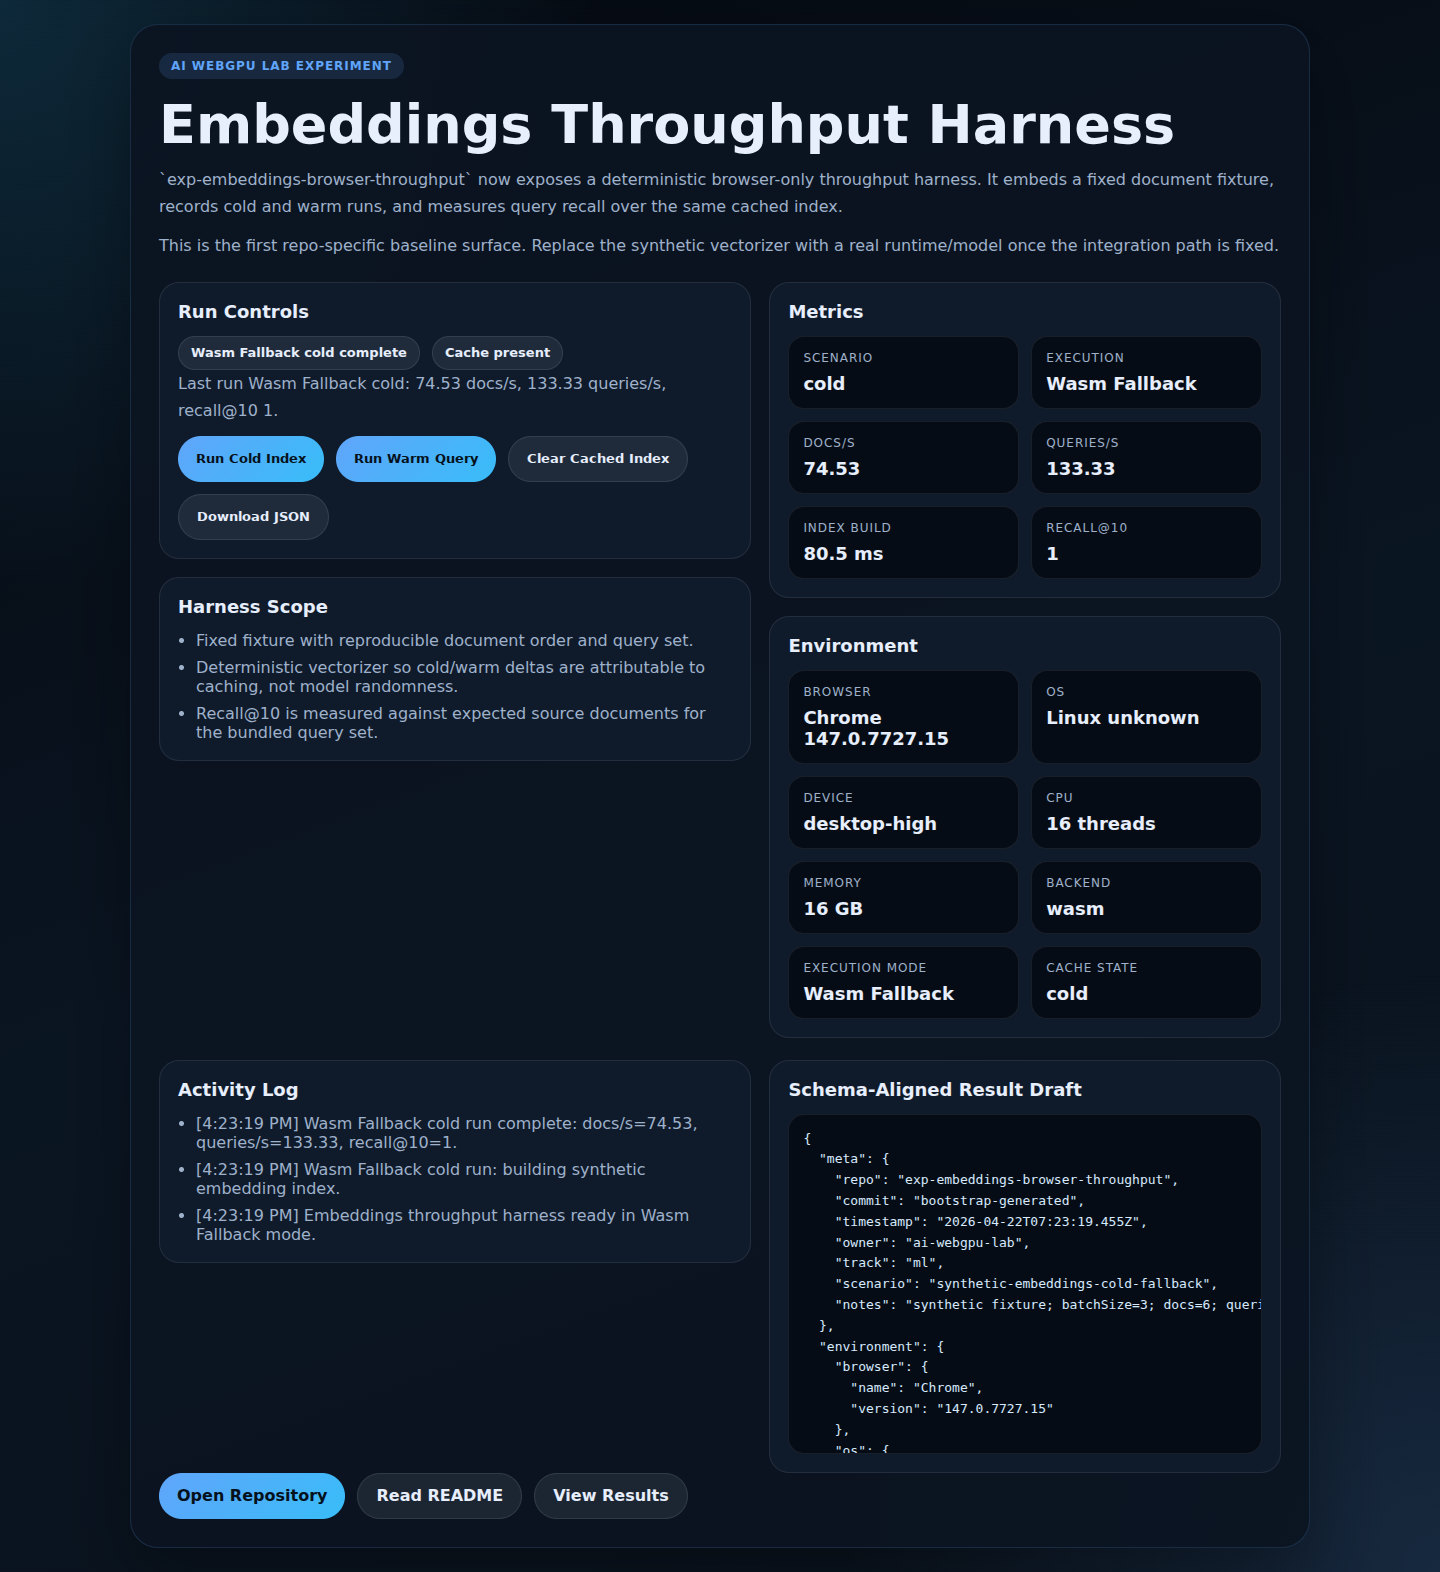
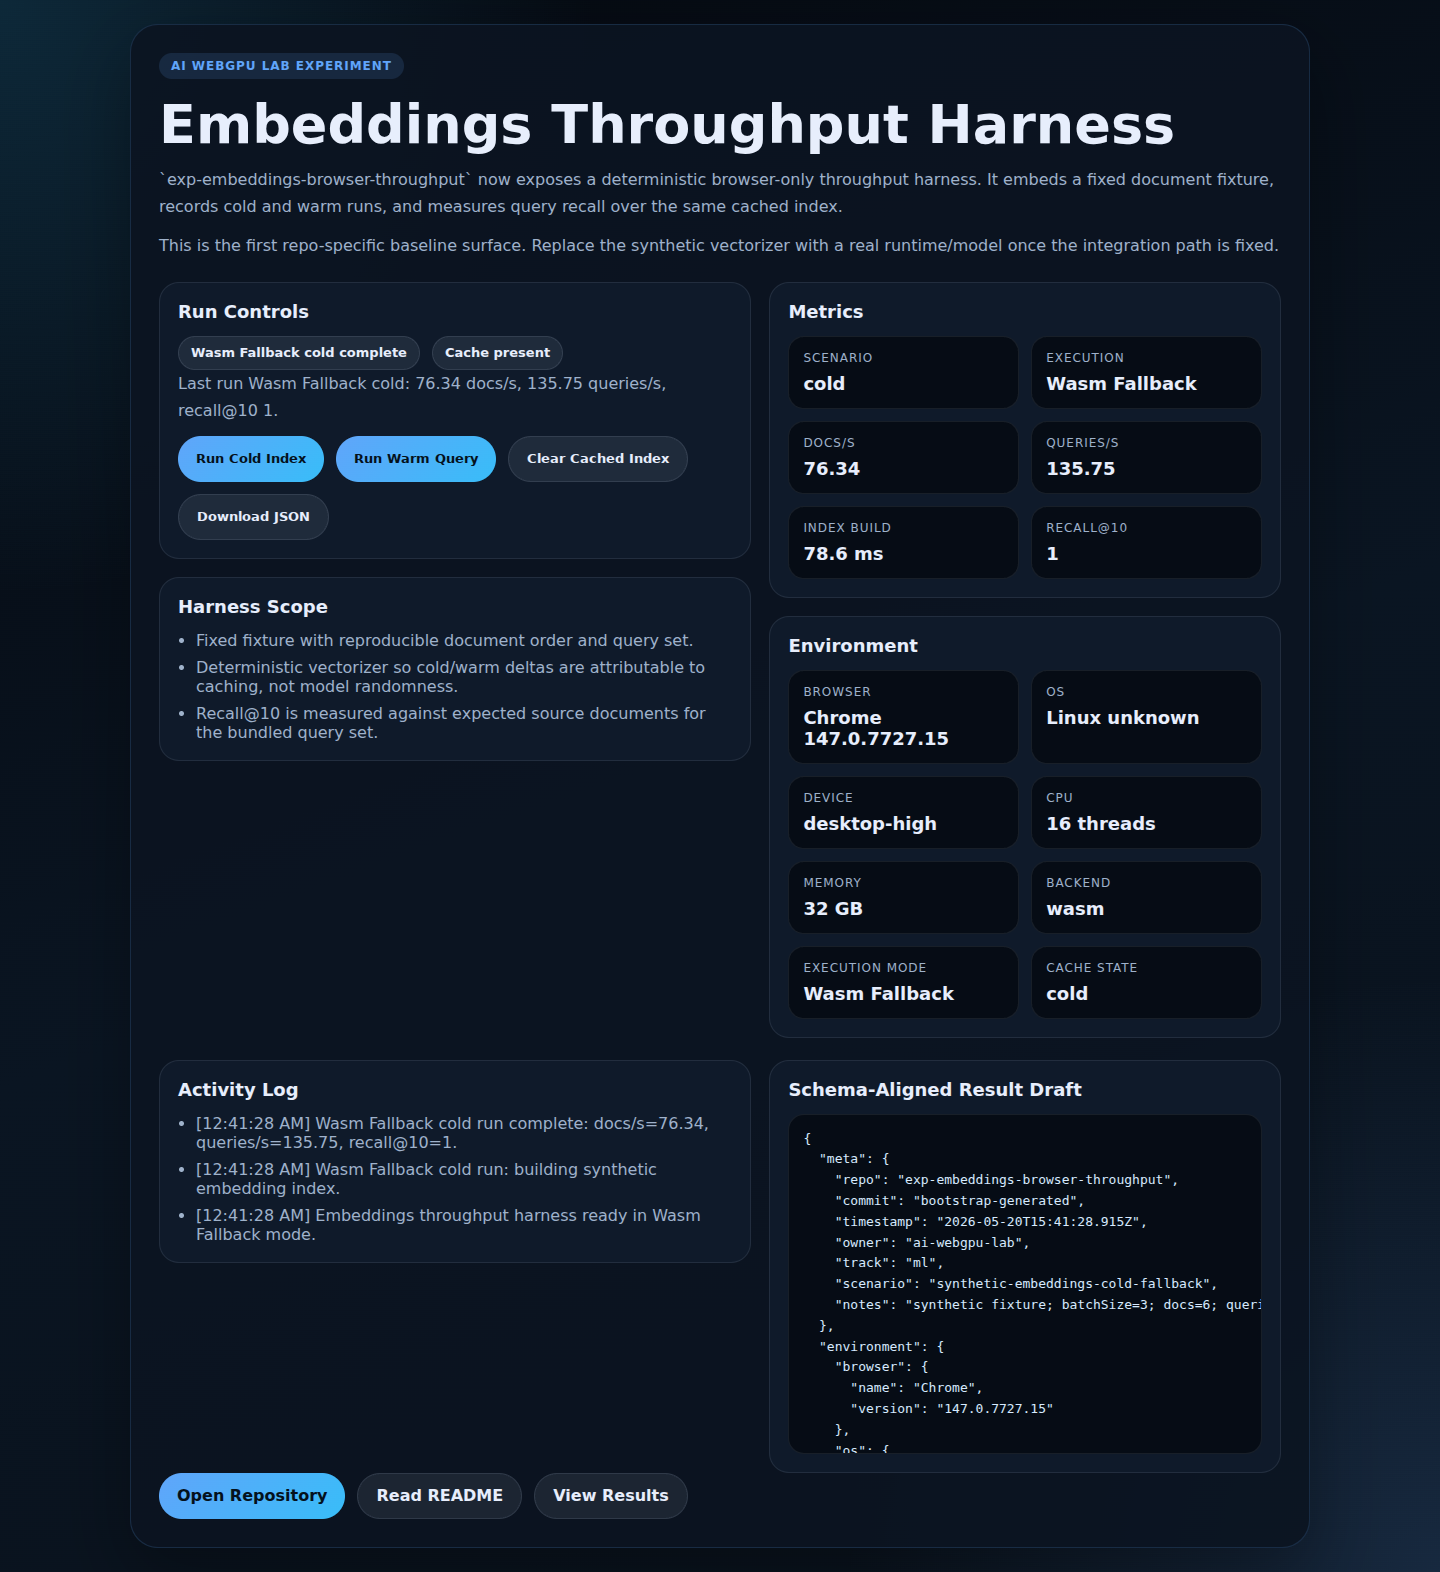
Record verified Pages baseline results

Changed region(s): [[0.125, 0.6858, 0.4688, 0.7793], [0.5625, 0.3429, 0.5938, 0.374], [0.5625, 0.2805, 0.5938, 0.3117]]

diff --git a/RESULTS.md b/RESULTS.md
@@ -2,8 +2,8 @@
 
 ## 1. 실험 요약
 - 저장소: exp-embeddings-browser-throughput
-- 커밋 해시: 07ce4fa
-- 실험 일시: 2026-04-22T07:23:16.757Z -> 2026-04-22T07:23:20.410Z
+- 커밋 해시: efe9b12
+- 실험 일시: 2026-05-20T15:41:26.692Z -> 2026-05-20T15:41:29.637Z
 - 담당자: ai-webgpu-lab
 - 실험 유형: `ml`
 - 상태: `success`
@@ -26,7 +26,7 @@
 - 장치명: Linux x86_64
 - device class: `desktop-high`
 - CPU: 16 threads
-- 메모리: 16 GB
+- 메모리: 32 GB
 - 전원 상태: `unknown`
 
 ### GPU / 실행 모드
@@ -51,38 +51,38 @@
 
 ## 5. 측정 지표
 ### 공통
-- time_to_interactive_ms: 89.3 ~ 195 ms
-- init_ms: 0 ~ 80.5 ms
+- time_to_interactive_ms: 79.1 ~ 174.4 ms
+- init_ms: 0 ~ 78.6 ms
 - success_rate: 1
-- peak_memory_note: 16 GB reported by browser
+- peak_memory_note: 32 GB reported by browser
 - error_type: -
 
 ### Embeddings / ML
-- docs_per_sec: 74.53 ~ 6000
-- queries_per_sec: 133.33 ~ 227.27
-- p95_ms: 0 ~ 17.5 ms
+- docs_per_sec: 76.34 ~ 6000
+- queries_per_sec: 121.46 ~ 232.56
+- p95_ms: 0 ~ 13.1 ms
 - recall_at_10: 1
-- index_build_ms: 0 ~ 80.5 ms
+- index_build_ms: 0 ~ 78.6 ms
 - backends: webgpu, wasm
 - fallback states: false, true
 
 ## 6. 결과 표
 | Run | Scenario | Backend | Cache | Mean | P95 | Notes |
 |---|---|---:|---:|---:|---:|---|
-| 1 | Cold Index / WebGPU | webgpu | cold | 139.21 | 17.5 | queries/s=227.27, recall@10=1, metric=docs/s |
-| 2 | Warm Query / WebGPU | webgpu | warm | 6000 | 0 | queries/s=206.9, recall@10=1, metric=docs/s |
-| 3 | Cold Index / Fallback | wasm | cold | 74.53 | 13 | queries/s=133.33, recall@10=1, metric=docs/s |
-| 4 | Warm Query / Fallback | wasm | warm | 6000 | 0 | queries/s=133.93, recall@10=1, metric=docs/s |
+| 1 | Cold Index / WebGPU | webgpu | cold | 171.92 | 9.9 | queries/s=232.56, recall/top-k=1, metric=docs/s |
+| 2 | Warm Query / WebGPU | webgpu | warm | 6000 | 0 | queries/s=155.44, recall/top-k=1, metric=docs/s |
+| 3 | Cold Index / Fallback | wasm | cold | 76.34 | 13.1 | queries/s=135.75, recall/top-k=1, metric=docs/s |
+| 4 | Warm Query / Fallback | wasm | warm | 6000 | 0 | queries/s=121.46, recall/top-k=1, metric=docs/s |
 
 ## 7. 관찰
-- warm run docs_per_sec는 6000이고 cold 대비 delta는 5860.79였다.
+- warm run docs_per_sec는 6000이고 cold 대비 delta는 5828.08였다.
 - recall@10은 cold=1, warm=1로 유지됐다.
 - playwright-chromium로 수집된 automation baseline이며 headless=true, browser=Chromium 147.0.7727.15.
 - 실제 runtime/model/renderer 교체 전 deterministic harness 결과이므로, 절대 성능보다 보고 경로와 재현성 확인에 우선 의미가 있다.
 
 ## 8. WebGPU vs Fallback
-- cold cache: docs/s webgpu=139.21, fallback=74.53, delta=+64.68; queries/s delta=+93.94; recall delta=0
-- warm cache: docs/s webgpu=6000, fallback=6000, delta=0; queries/s delta=+72.97; recall delta=0
+- cold cache: docs/s webgpu=171.92, fallback=76.34, delta=+95.58; queries/s delta=+96.81; recall delta=0
+- warm cache: docs/s webgpu=6000, fallback=6000, delta=0; queries/s delta=+33.98; recall delta=0
 
 ## 9. 결론
 - cold/warm embeddings baseline 결과와 문서화 경로가 처음으로 연결됐다.
